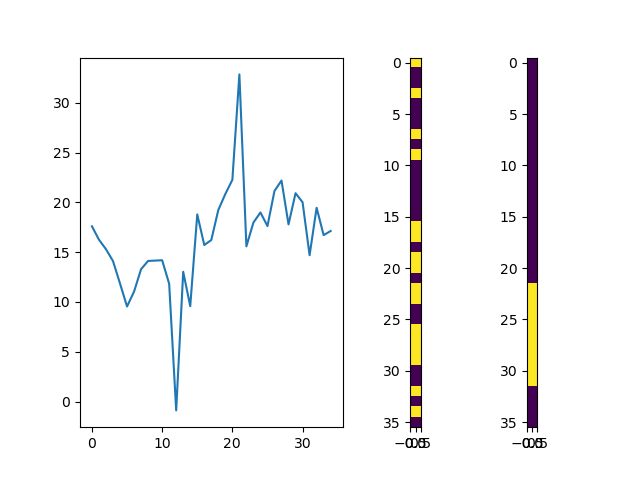
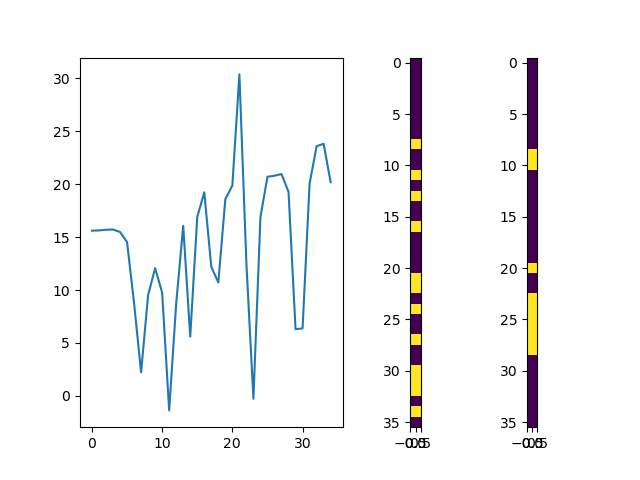
threshold improved

diff --git a/1d/peaks_to_slot/peaks_to_slots_model.py b/1d/peaks_to_slot/peaks_to_slots_model.py
@@ -17,24 +17,24 @@ class LWAPredictionModel(tf.keras.Model):
         # self.dense_layers.add(Dense(1000, activation = 'relu'))
         # self.dense_layers.add(Dense(800, activation = 'relu'))
         self.dense_layers.add(Dense(1000))
-        self.dense_layers.add(LeakyReLU(0.2))
-        # self.dense_layers.add(ReLU())
+        # self.dense_layers.add(LeakyReLU(0.2))
+        self.dense_layers.add(ReLU())
         self.dense_layers.add(Dense(1000))
-        self.dense_layers.add(LeakyReLU(0.2))
-        # self.dense_layers.add(ReLU())
+        # self.dense_layers.add(LeakyReLU(0.2))
+        self.dense_layers.add(ReLU())
         self.dense_layers.add(Dense(1000))
-        self.dense_layers.add(LeakyReLU(0.2))
-        # self.dense_layers.add(ReLU())
+        # self.dense_layers.add(LeakyReLU(0.2))
+        self.dense_layers.add(ReLU())
         self.dense_layers.add(Dense(1000))
-        self.dense_layers.add(LeakyReLU(0.2))
-        # self.dense_layers.add(ReLU())
+        # self.dense_layers.add(LeakyReLU(0.2))
+        self.dense_layers.add(ReLU())
         self.dense_layers.add(Dense(1000))
-        self.dense_layers.add(LeakyReLU(0.2))
-        # self.dense_layers.add(ReLU())
+        # self.dense_layers.add(LeakyReLU(0.2))
+        self.dense_layers.add(ReLU())
         self.dense_layers.add(Dense(1000))
-        self.dense_layers.add(LeakyReLU(0.2))
+        # self.dense_layers.add(LeakyReLU(0.2))
         # self.dense_layers.add(Dropout(0.1))
-        # self.dense_layers.add(ReLU())
+        self.dense_layers.add(ReLU())
         # self.dense_layers.add(Conv1DTranspose(256, 3, 1, 'same',activation='relu'))
         # self.dense_layers.add(Conv1DTranspose(128, 4, 3, 'same',activation='relu'))
         # self.dense_layers.add(Conv1DTranspose(64, 5, 1, 'same',activation='relu'))
@@ -53,7 +53,7 @@ class LWAPredictionModel(tf.keras.Model):
         total_slots = tf.math.abs(tf.math.subtract(tf.cast(tf.reduce_sum(tf.round(true), axis=1),tf.float32),tf.cast(tf.reduce_sum(tf.round(prediction), axis=1),tf.float32)))
         normalized = total_slots / tf.cast(tf.reduce_sum(tf.round(true),axis=1),tf.float32)
         # print(normalized)
-        return bce(true, prediction) + (0*tf.reduce_mean(normalized))
+        return bce(true, prediction) + (2*tf.reduce_mean(normalized))
         # return bce(true,prediction)
         # return
 

diff --git a/1d/peaks_to_slot/preprocess.py b/1d/peaks_to_slot/preprocess.py
@@ -41,8 +41,6 @@ def import_data(timestamp_list):
     return np.concatenate(slots_list), np.concatenate(peaks_list)
 
 
-
-
 def get_next_batch(input_array, label_array, start_index, batch_size):
     """
     Accepts an array of inputs and labels along with a starting index and batch
